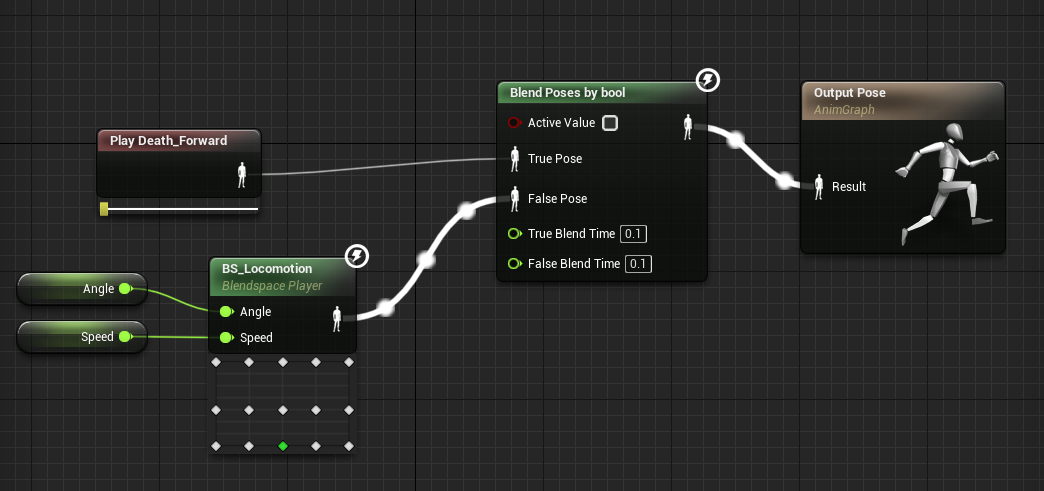
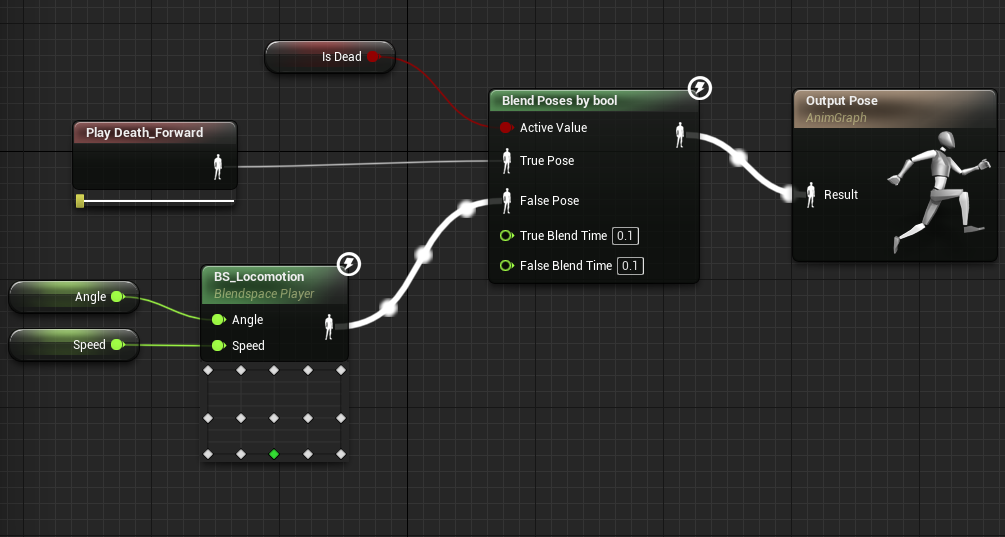
no message

diff --git a/README.md b/README.md
@@ -197,4 +197,6 @@ void AShooterCharacter::LookRightRate(float AxisValue)
 		return Health <= 0;
 	}
    ```
+	AnimGraph![ABP_BlendPosesByBool](https://raw.githubusercontent.com/Scorpiorl/UrealProject_SimpleShooter/master/README_PICTURE/ABP_BlendPosesByBool.png)
+	Event Graph![ABP_AnimGraph_AddIsDead](https://raw.githubusercontent.com/Scorpiorl/UrealProject_SimpleShooter/master/README_PICTURE/ABP_AnimGraph_AddIsDead.png)
 
